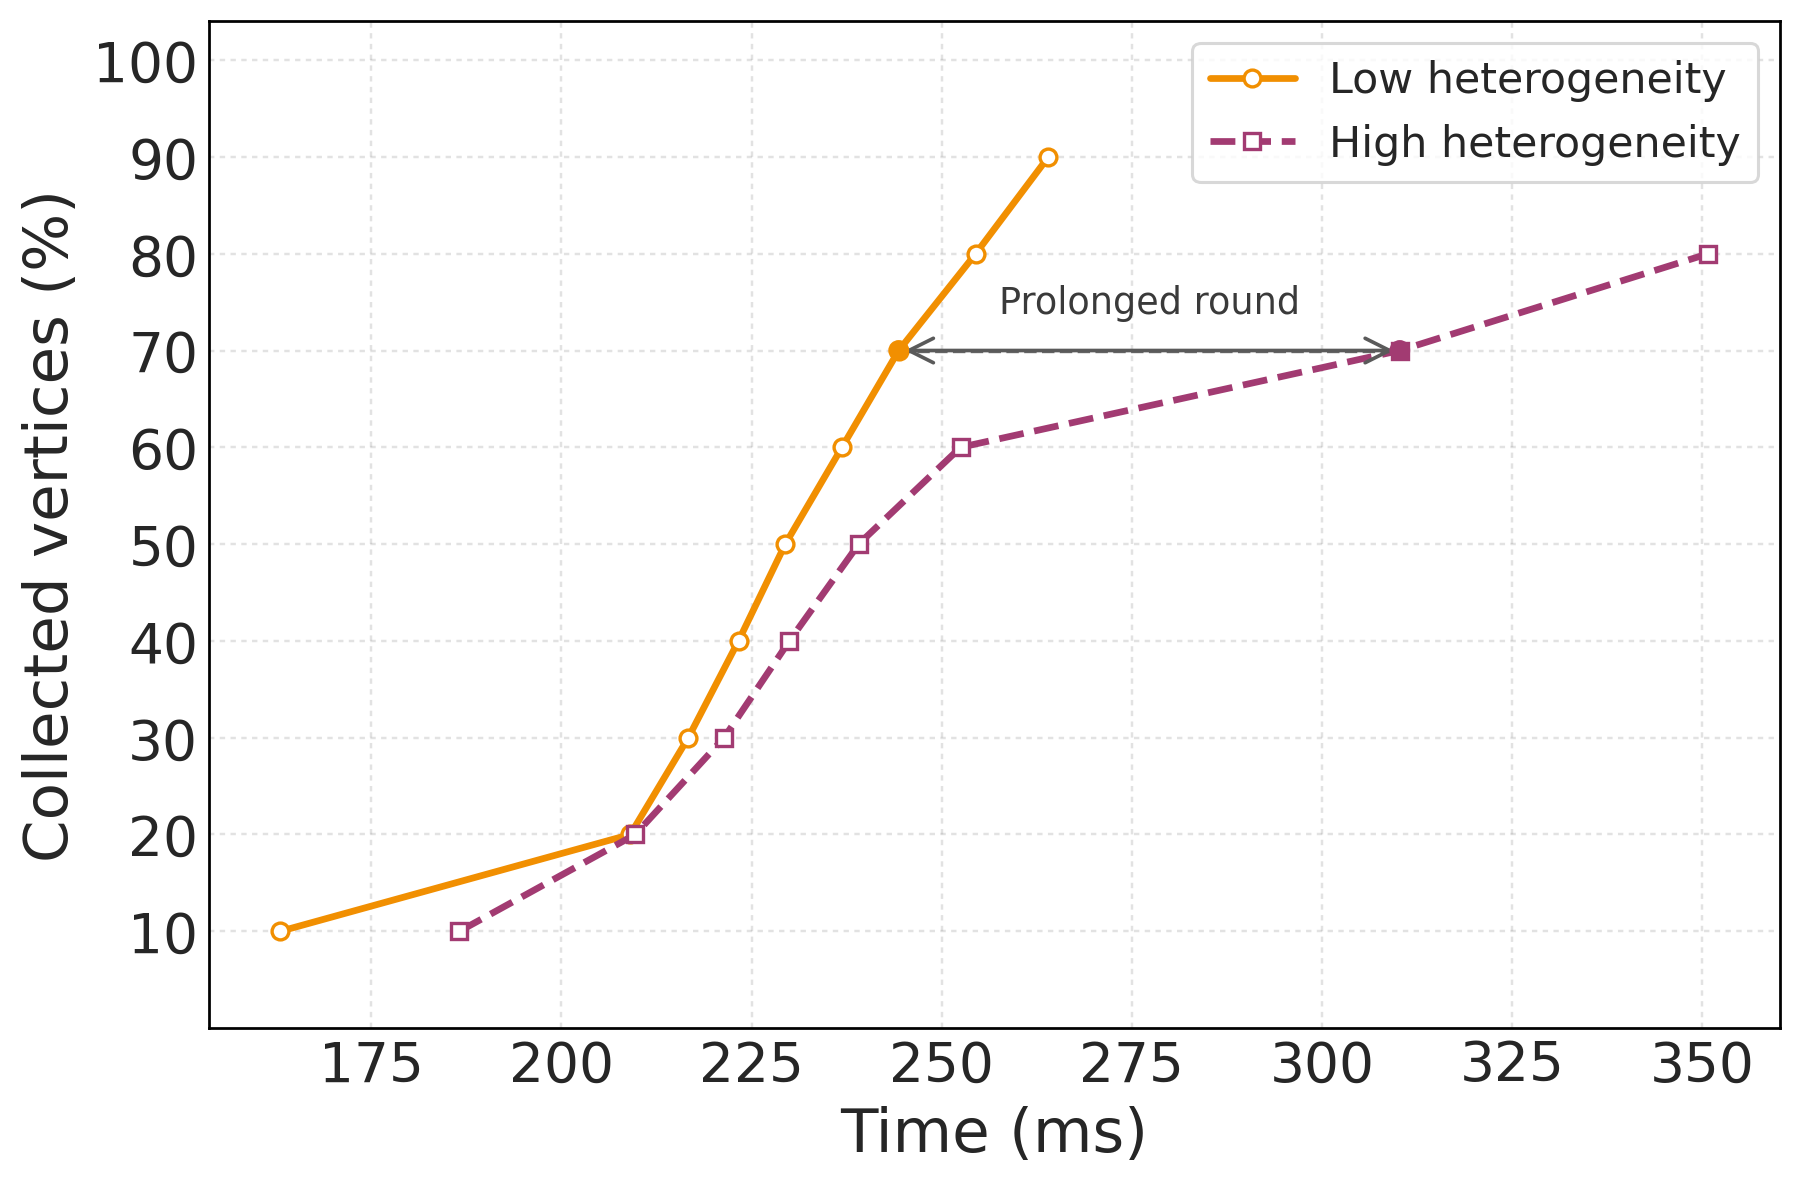
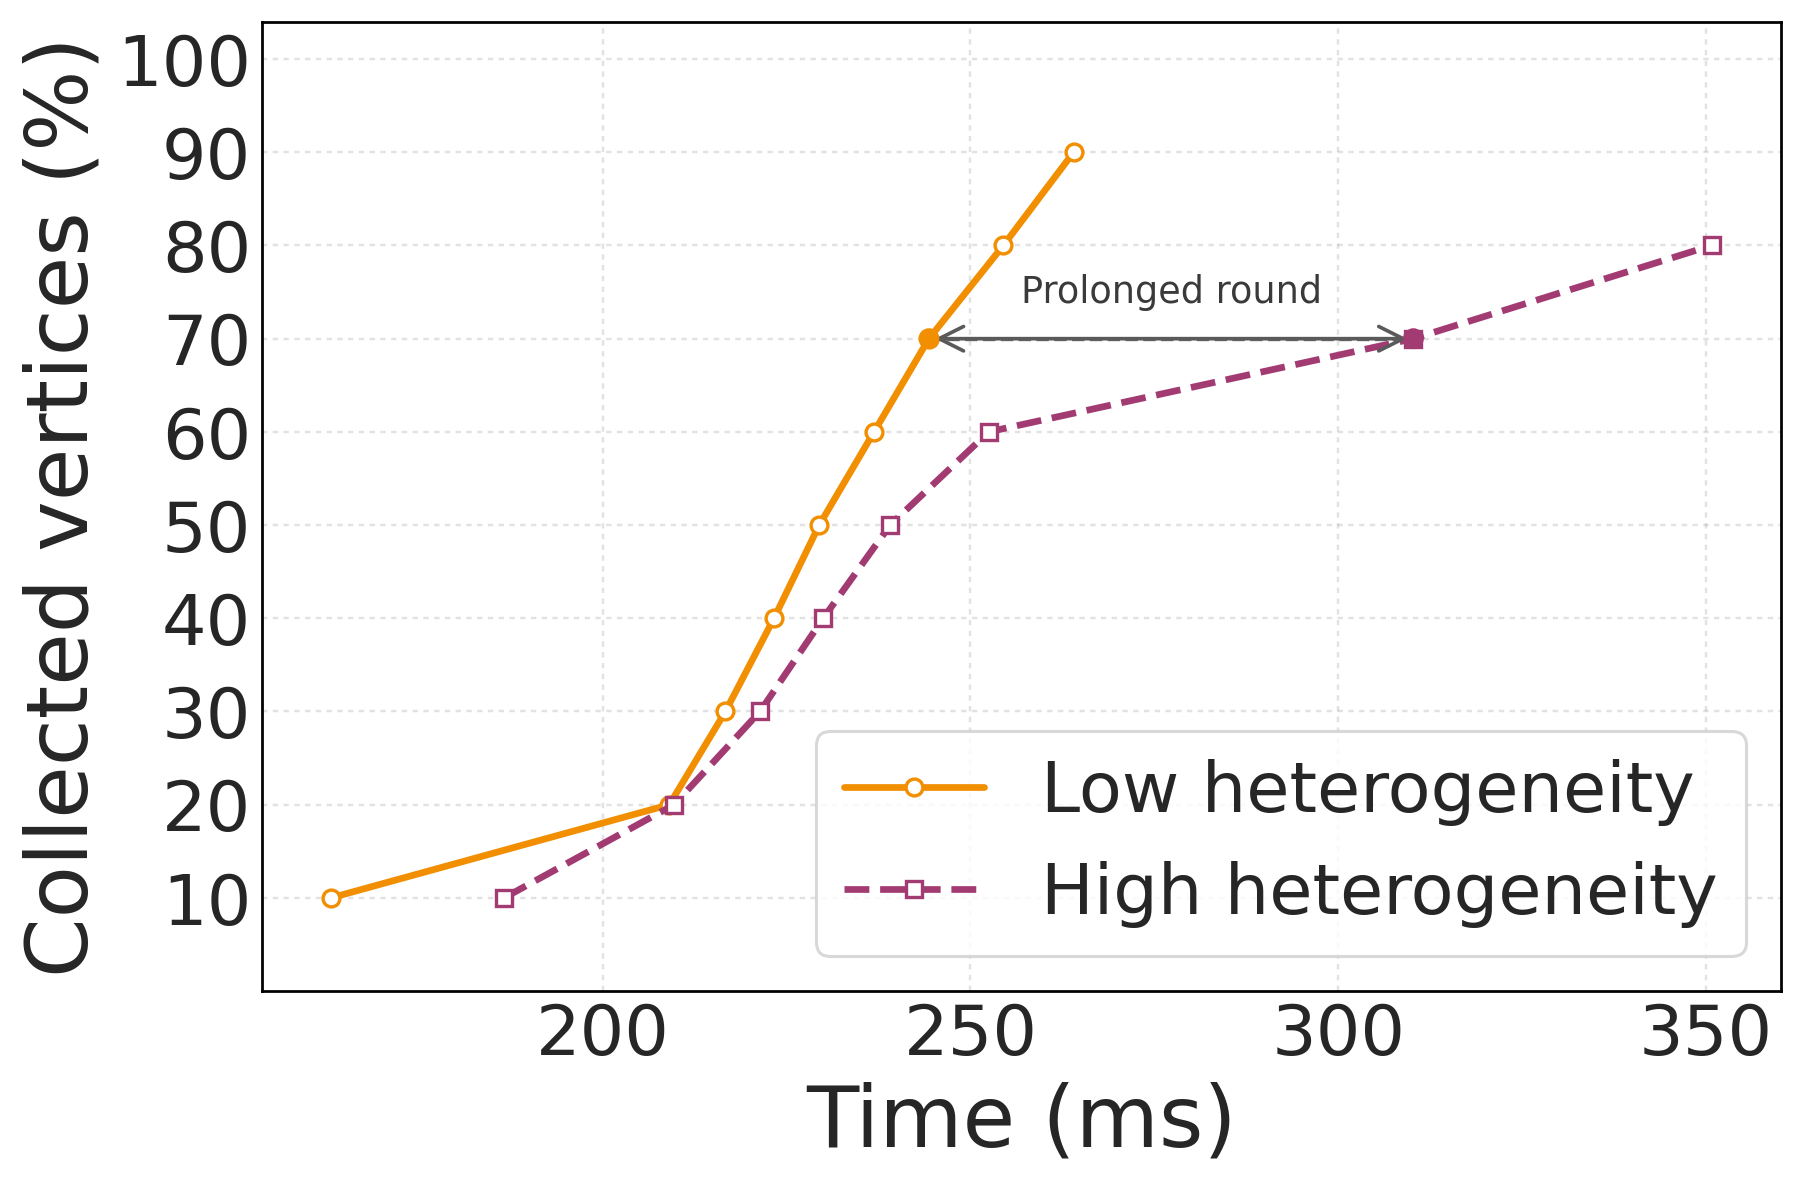
coupled

diff --git a/benchmark/plot_tusk_coupled_pair_cert_collection_compare.py b/benchmark/plot_tusk_coupled_pair_cert_collection_compare.py
@@ -53,11 +53,11 @@ def configure_plot_style():
     plt.rcParams.update(
         {
             "font.size": 20,
-            "axes.titlesize": 16,
-            "axes.labelsize": 18,
-            "legend.fontsize": 14,
-            "xtick.labelsize": 18,
-            "ytick.labelsize": 18,
+            "axes.titlesize": 33,
+            "axes.labelsize": 33,
+            "legend.fontsize": 25,
+            "xtick.labelsize": 23,
+            "ytick.labelsize": 23,
         }
     )
 
@@ -268,15 +268,15 @@ def plot_progress_comparison(output_path: Path, target_rate: int):
         color=ANNOTATION_TEXT_COLOR,
     )
 
-    ax.set_xlabel("Time (ms)", fontsize=20)
-    ax.set_ylabel("Collected vertices (%)", fontsize=20)
+    ax.set_xlabel("Time (ms)", fontsize=28)
+    ax.set_ylabel("Collected vertices (%)", fontsize=28)
     ax.set_ylim(0, 104)
     ax.set_yticks(range(10, 101, 10))
     ax.xaxis.set_major_formatter(StrMethodFormatter("{x:,.0f}"))
     ax.yaxis.set_major_formatter(StrMethodFormatter("{x:.0f}"))
     ax.grid(True, axis="both", linestyle=(0, (2.2, 2.2)), alpha=0.28, color=GRID_COLOR)
     ax.tick_params(direction="in", top=True, right=True)
-    ax.legend(frameon=True, facecolor="white", edgecolor=LEGEND_EDGE_COLOR, fontsize=14)
+    ax.legend(frameon=True, facecolor="white", edgecolor=LEGEND_EDGE_COLOR, fontsize=23)
     for spine in ax.spines.values():
         spine.set_visible(True)
         spine.set_color(FRAME_COLOR)

diff --git a/benchmark/plot_tusk_coupled_pair_tps_latency_compare_consensus.py b/benchmark/plot_tusk_coupled_pair_tps_latency_compare_consensus.py
@@ -81,11 +81,11 @@ def configure_plot_style():
     plt.rcParams.update(
         {
             "font.size": 20,
-            "axes.titlesize": 16,
-            "axes.labelsize": 18,
-            "legend.fontsize": 14,
-            "xtick.labelsize": 18,
-            "ytick.labelsize": 18,
+            "axes.titlesize": 33,
+            "axes.labelsize": 33,
+            "legend.fontsize": 25,
+            "xtick.labelsize": 25,
+            "ytick.labelsize": 25,
         }
     )
 
@@ -208,13 +208,13 @@ def plot_tps_latency_comparison(output_path: Path):
     if not series_rows:
         raise ValueError("No consensus TPS-latency data found for the selected workloads.")
 
-    ax.set_xlabel("Throughput (KTps)", fontsize=20)
-    ax.set_ylabel("Latency (s)", fontsize=20)
+    ax.set_xlabel("Throughput (KTps)", fontsize=28)
+    ax.set_ylabel("Latency (s)", fontsize=28)
     ax.xaxis.set_major_formatter(StrMethodFormatter("{x:,.0f}"))
     ax.yaxis.set_major_formatter(StrMethodFormatter("{x:.1f}"))
     ax.grid(True, axis="both", linestyle=(0, (2.2, 2.2)), alpha=0.28, color=GRID_COLOR)
     ax.tick_params(direction="in", top=True, right=True)
-    ax.legend(frameon=True, facecolor="white", edgecolor=LEGEND_EDGE_COLOR, fontsize=14)
+    ax.legend(frameon=True, facecolor="white", edgecolor=LEGEND_EDGE_COLOR, fontsize=23)
     for spine in ax.spines.values():
         spine.set_visible(True)
         spine.set_color(FRAME_COLOR)
